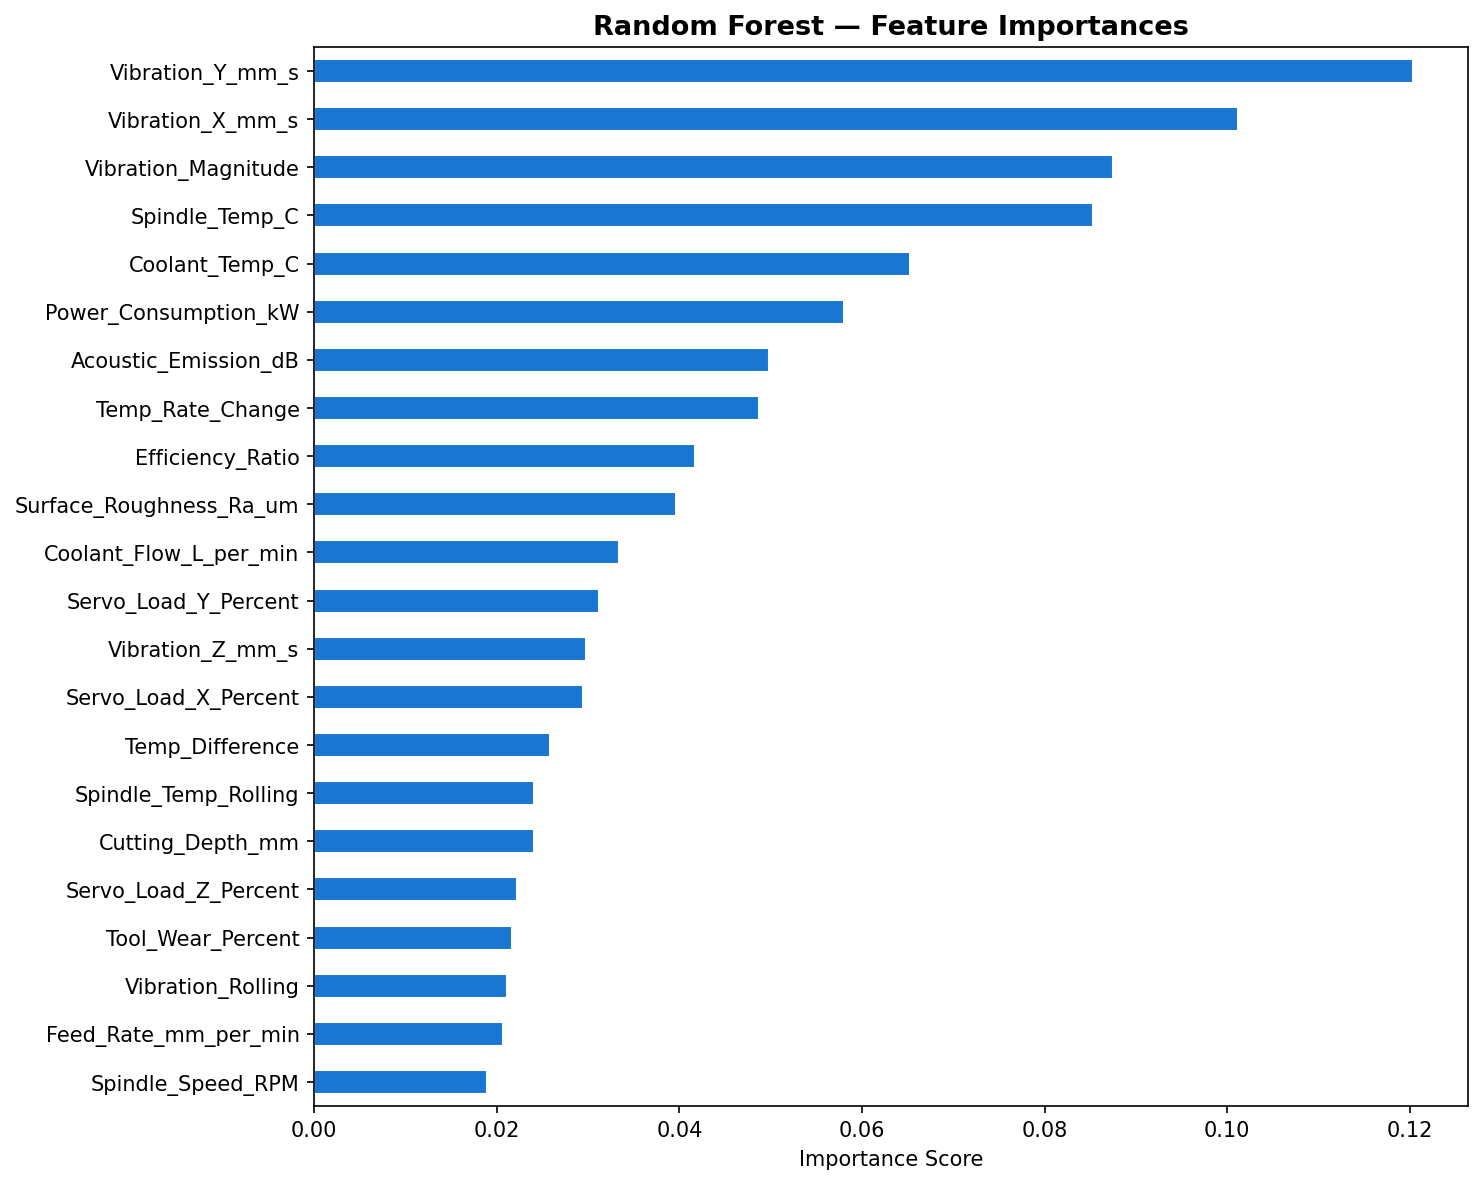
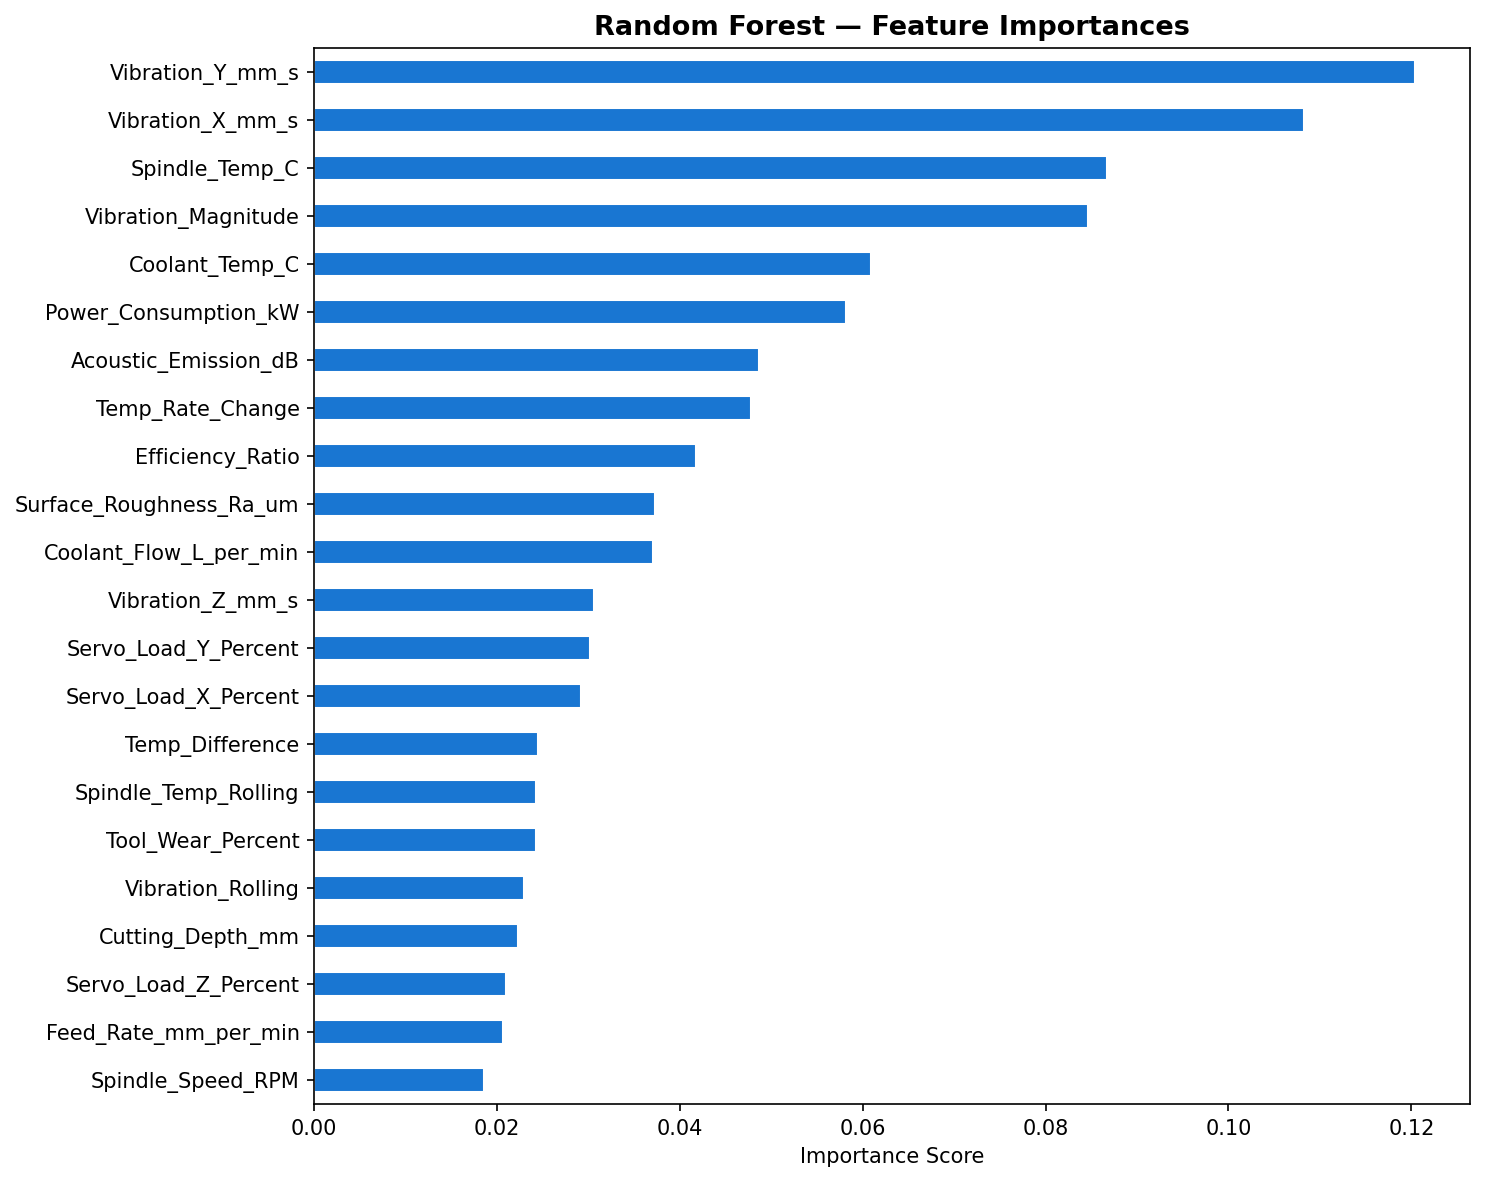
Fix scaler data leakage, align live alerting with Logistic Regression, clip bad sensor values
- StandardScaler was fit on the full dataset before the train/test split,
  leaking test-set statistics into training. Now split first, fit on
  train only, and transform test with that same scaler. LSTM gets its
  own scaler fit on the temporal training portion for the same reason.
- predict_and_alert() was using Random Forest as best_model despite the
  project's stated focus on Logistic Regression; switched it over and
  removed a redundant duplicate probability calculation.
- Clip Tool_Wear_Percent to [0, 100] and Surface_Roughness_Ra_um to >= 0
  to remove physically impossible synthetic data values.

diff --git a/cnc_predictive_maintenance.py b/cnc_predictive_maintenance.py
@@ -51,6 +51,11 @@ numeric_cols = [
 
 for col in numeric_cols:
     df[col] = pd.to_numeric(df[col], errors='coerce')
+
+# Clip physically impossible values from synthetic data generation
+df['Tool_Wear_Percent'] = df['Tool_Wear_Percent'].clip(0, 100)
+df['Surface_Roughness_Ra_um'] = df['Surface_Roughness_Ra_um'].clip(lower=0)
+
 print(df.dtypes)
 print(f"Dataset shape: {df.shape}")
 print(f"\nFirst 5 rows:\n{df.head()}")
@@ -132,18 +137,19 @@ print("\nTarget: Defect_Label (0=Normal, 1=Defective)")
 print(f"\nClass distribution:\n{y.value_counts()}")
 print(f"Defect rate: {y.mean()*100:.1f}%")
 
-# Normalise features
-scaler = StandardScaler()
-X_scaled = pd.DataFrame(scaler.fit_transform(X), columns=X.columns)
-
-# Train/test split (80/20)
-X_train, X_test, y_train, y_test = train_test_split(
-    X_scaled,
+# Train/test split (80/20) — split BEFORE scaling to avoid data leakage
+X_train_raw, X_test_raw, y_train, y_test = train_test_split(
+    X,
     y,
     test_size=0.2,
     random_state=42,
     stratify=y
 )
+
+# Normalise features — fit scaler on training data only
+scaler = StandardScaler()
+X_train = pd.DataFrame(scaler.fit_transform(X_train_raw), columns=X.columns)
+X_test = pd.DataFrame(scaler.transform(X_test_raw), columns=X.columns)
 
 print("\nBefore SMOTE:")
 print(pd.Series(y_train).value_counts())
@@ -393,8 +399,8 @@ def check_alerts(row):
                 alerts.append(f" HIGH {sensor}: {val:.2f} (threshold: <{threshold})")
     return alerts
 
-# Also use the best ML model (Random Forest) for prediction
-best_model = results['Random Forest']['model']
+# Use Logistic Regression for live prediction/alerting (project focus model)
+best_model = results['Logistic Regression']['model']
 
 # -----------------------------
 # Feature Engineering
@@ -517,7 +523,6 @@ def predict_and_alert(sensor_reading: dict):
 
     probability = best_model.predict_proba(input_scaled)[0][1]
     prediction = 1 if probability >= 0.70 else 0
-    probability = best_model.predict_proba(input_scaled)[0][1]
 
     print(f"\n ML Prediction: {'⛔ DEFECT DETECTED' if prediction == 1 else ' NORMAL'}")
     print(f"   Defect Probability: {probability*100:.1f}%")
@@ -637,12 +642,24 @@ print("=" * 60)
 
 sequence_length = 20
 
+# LSTM uses a time-ordered split, so scale using only the temporal
+# training portion to avoid leaking future data into the fit.
+lstm_split_idx = int(len(X) * 0.8)
+lstm_scaler = StandardScaler()
+X_scaled_lstm = pd.DataFrame(
+    np.vstack([
+        lstm_scaler.fit_transform(X.iloc[:lstm_split_idx]),
+        lstm_scaler.transform(X.iloc[lstm_split_idx:])
+    ]),
+    columns=X.columns
+)
+
 X_seq = []
 y_seq = []
 
-for i in range(len(X_scaled) - sequence_length):
+for i in range(len(X_scaled_lstm) - sequence_length):
     X_seq.append(
-        X_scaled.iloc[i:i+sequence_length].values
+        X_scaled_lstm.iloc[i:i+sequence_length].values
     )
 
     y_seq.append(
